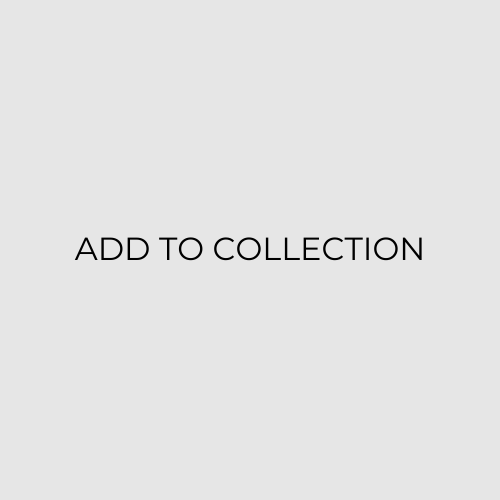
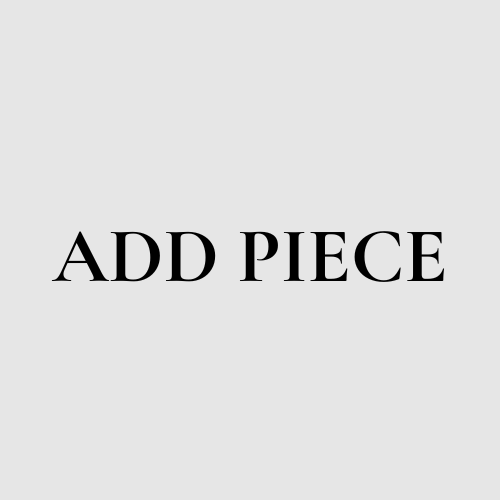
new add to collection and remove grid from Design Display

Changed region(s): [[0.09, 0.45, 0.9, 0.57]]

diff --git a/client/src/PiecesContainer.js b/client/src/PiecesContainer.js
@@ -10,9 +10,8 @@ import CardContent from '@mui/material/CardContent';
 import CardMedia from '@mui/material/CardMedia';
 import { CardActionArea, CardActions } from '@mui/material';
 import addtocollection from '././styles/addtocollection.png';
-import Paper from '@mui/material/Paper';
 import Box from '@mui/material/Box';
-import Container from '@mui/material/Container';
+
 
 export default function PiecesContainer ({piecesLibrary, setPiecesLibrary}) {
     const [openForm, setOpenForm] = useState(false)
@@ -67,7 +66,7 @@ export default function PiecesContainer ({piecesLibrary, setPiecesLibrary}) {
         <NewPiece addNewPiece={addNewPiece} handleOpenForm={handleOpenForm} /> 
         </>:
         (<>
-        <Grid container >
+        <Grid container spacing={3} >
           <Grid item xs={12} sm={4} >
             <Card sx={{ maxWidth: 345, margin:'50px' }}>
               <CardActionArea>
@@ -93,10 +92,7 @@ export default function PiecesContainer ({piecesLibrary, setPiecesLibrary}) {
             </Box>
           
           </Grid>
-          <Grid container xs={12} sm={8} spacing={3}
-          sx={{padding:'20px'}}>
           {displayPieces}
-          </Grid>
         </Grid>
         </>)}
         </main>

diff --git a/client/src/DesignDisplay.js b/client/src/DesignDisplay.js
@@ -51,10 +51,10 @@ export default function DesignDisplay ({ piecesLibrary, setPiecesLibrary, d, rem
     const handleEdit = () => setEditMode(!editMode)
 
     return (
-        <div>
-            <Grid container component="main">
+        <div id="designDisplay">
         <h1 id="mainName">{d.name.toUpperCase()}</h1>
-        <Button onClick={handleEdit}>{editMode ? "View Moodboard" :"Edit design"}</Button>
+        
+        <Button onClick={handleEdit}>{editMode ? "Back to Moodboard" :"Edit design"}</Button>
         
         {editMode ?
         <>
@@ -97,7 +97,6 @@ export default function DesignDisplay ({ piecesLibrary, setPiecesLibrary, d, rem
         </Grid>   
         </> 
         }
-        </Grid>
         </div> 
     )
 } 

diff --git a/client/src/DesignEdit.js b/client/src/DesignEdit.js
@@ -31,7 +31,6 @@ export default function DesignEdit ({handleAssociatedPD, showAssocPD, handleRemo
         </ImageListItem>
         {showAssocPD.map((item) => (
         <ImageListItem key={item.id}>
-            {/* {console.log(item)} */}
           <img
             src={`${item.piece.image}?w=248&fit=crop&auto=format`}
             srcSet={`${item.piece.image}?w=248&fit=crop&auto=format&dpr=2 2x`}

diff --git a/client/src/ColorPalette.js b/client/src/ColorPalette.js
@@ -132,10 +132,8 @@ export default function ColorPalette ({d}) {
                <InfoIcon/>
               </IconButton>
             </Tooltip>
-            
             <Button onClick={generateRandomPalette}>Generate Random Palette</Button>
             <Button onClick={handleSavePalette}>Save Palette</Button>
-            
         </div>
 
     )

diff --git a/client/src/Piece.js b/client/src/Piece.js
@@ -60,7 +60,7 @@ export default function Piece ({p, removePiece}) {
 
 
     return (
-        <Grid item xs={12} sm={6} md={4} >
+        <Grid item xs={12} sm={6} md={3} >
         <Card sx={{ maxWidth: 345, height: '100%', display: 'flex', flexDirection: 'column' }} >
             <CardActionArea>
                 <CardMedia

diff --git a/client/src/DesignContainer.js b/client/src/DesignContainer.js
@@ -58,7 +58,7 @@ export default function DesignContainer ({piecesLibrary,
     })
  
     return (
-        <div id={(route === '/designs') ? "designsPage" : "designDisplay"}>
+        <div id="designsPage">
         <Menu />
         <Grid container component='main'>
             <Grid item
